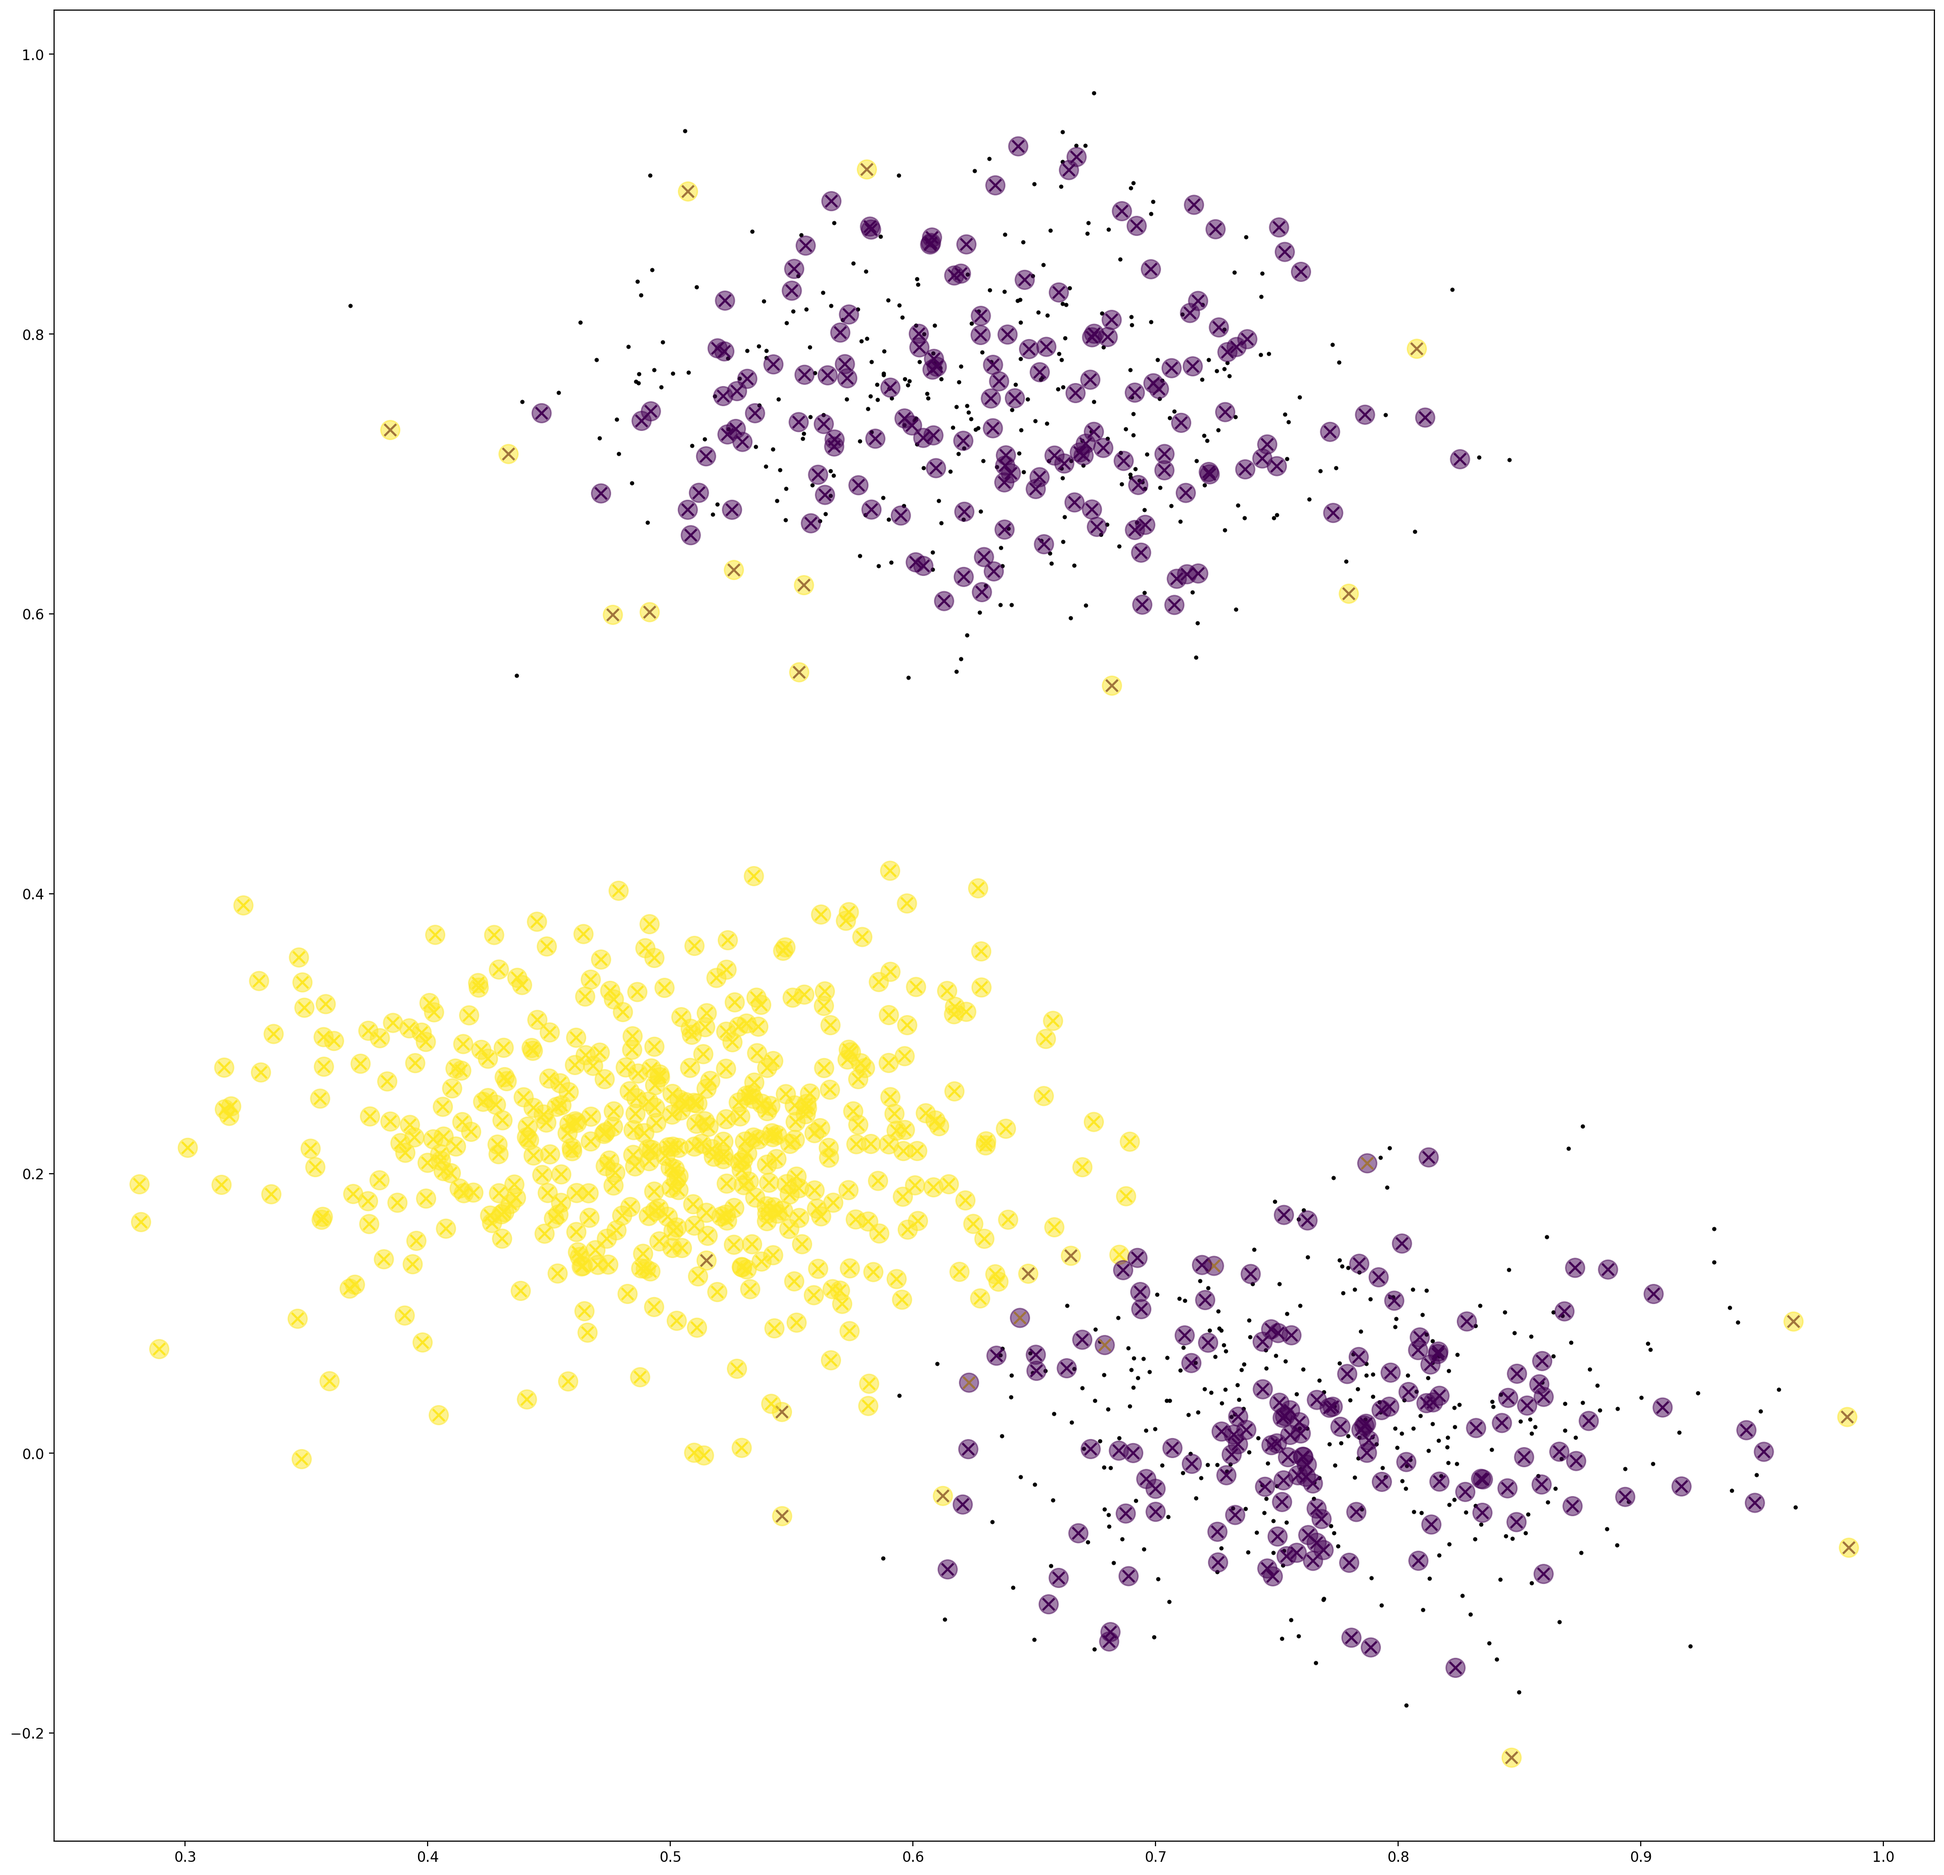
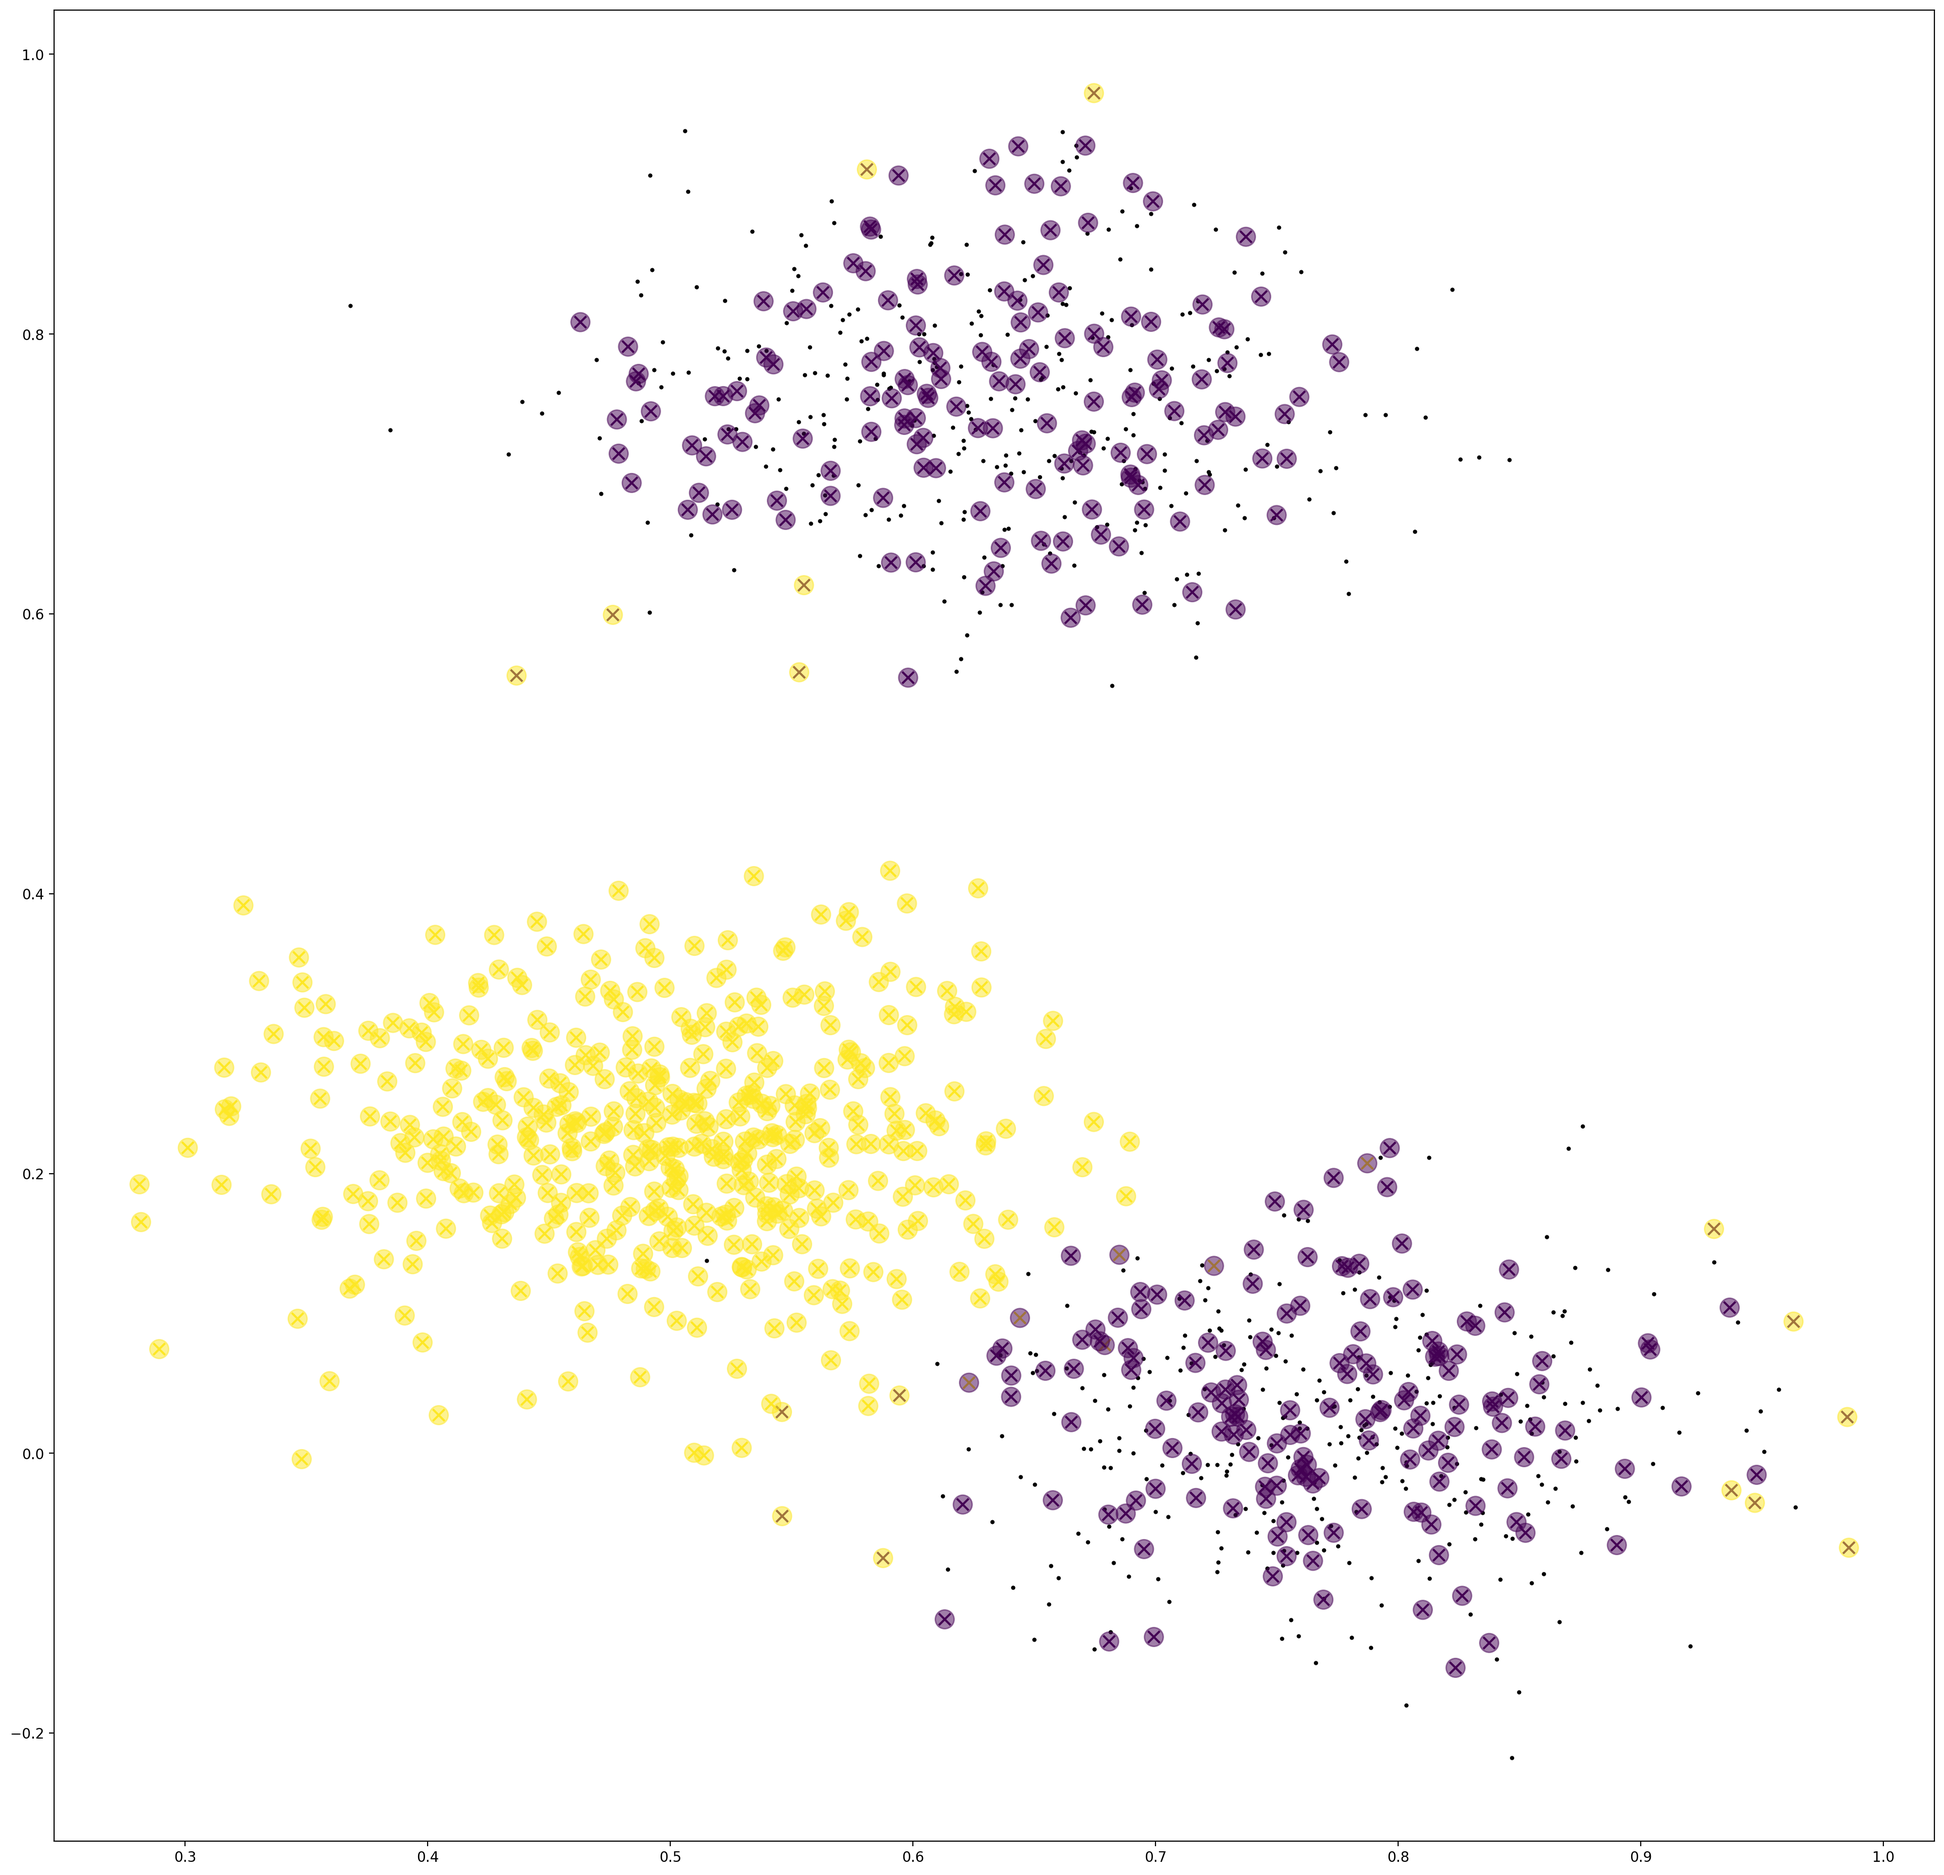
change until gpdc.fit function

diff --git a/evt_classifier/demo.py b/evt_classifier/demo.py
@@ -1,40 +1,86 @@
 
 #%% Importing Libs
 import matplotlib.pyplot as plt
+import seaborn as sns
 import numpy as np
 import pandas as pd
+
 from sklearn.datasets import make_classification, make_blobs
 from sklearn.model_selection import train_test_split
 from sklearn.metrics import roc_auc_score
 from gpdc import GPDC
 
+#%% GENERATE DATA
+X1, Y1 = make_blobs(n_samples=1400, center_box=(0, 1), 
+                    cluster_std=.08, 
+                    n_features=2, # dimension space
+                    centers=3, # number of classes 
+                    random_state=10)
 
-#%% RUN
-X1, Y1 = make_blobs(n_samples=1400,\
-    center_box=(0, 1), cluster_std=.08, n_features=2, centers=3, random_state=10)
-# print('Y1:', set(Y1))
+print('Y1:', set(Y1))
+
 data = pd.DataFrame(data={'x1': X1[:, 0], 'x2': X1[:, 1], 'y': Y1})
-test_1 = data[data['y'] == 2]
-train, test_2 = train_test_split(data.loc[data['y'].isin([0, 1]), :], test_size=0.35)
-test = pd.concat([test_1, test_2]).reset_index(drop=True)
+sns.scatterplot(data['x1'], data['x2'], hue=data['y'])
 
-X_train,y_train=train.values[:,:2],train.values[:,2]
-y_train=np.zeros(train.shape[0])
+#%% TRAIN TEST SPLIT
+df_y0_y1 = data.loc[data['y'].isin([0, 1]), :].copy()
+X = df_y0_y1.iloc[:,:-1]
+y = df_y0_y1.iloc[:,-1]
 
-X_test=test.values[:,:2]
-y_test=test.values[:,2].reshape(1,-1).squeeze()
-y_test=np.array(list(map(lambda x_:0 if x_ in (0,1) else 1,y_test)))
-# xa = X1[0]+np.array([1, 1])
-# print(train.shape,test.shape)
-if False:
-    plt.figure(figsize=(8, 8))
-    plt.scatter(X_train[:,0], X_train[:, 1],marker='.', c=y_train, s=25, edgecolor='k')
-    plt.scatter(X_test[:, 0], X_test[:, 1], marker='x', c=y_test)
-    # plt.scatter(xa[0], xa[1], marker='x', color='green')
-    plt.show()
+'''
+X_train: X of the classes 0, 1 
+y_train: y of the classes 0, 1 -> make all them of the same class 0 
+X_test: X of the classes 0, 1, 2
+y_test: y of the classes 0, 1, 2
+'''
 
+# train
+X_train, X_test, y_train, y_test  = train_test_split(X, y, 
+                                                      test_size=0.35, random_state=10)
+y_train = np.zeros(X_train.shape[0]) # making all train data of the same class 0
+print(f'Train Shape {X_train.shape, y_train.shape}')
+
+# test
+df_y2 = data.loc[data['y'].isin([2]), :].copy()
+X_test = pd.concat([X_test, df_y2.iloc[:,:2]]).reset_index(drop=True) # include class 2
+y_test = pd.concat([y_test, df_y2.iloc[:,-1]]).reset_index(drop=True) # include class 2
+print(f'Test Shape {X_test.shape, y_test.shape}')
+
+# shuffle test set
+from sklearn.utils import shuffle
+X_test, y_test = shuffle(X_test, y_test, random_state=10)
+
+
+X_train = X_train.values
+X_test = X_test.values
+
+# if False:
+plt.figure(figsize=(8, 8))
+plt.scatter(X_train[:,0], X_train[:, 1],marker='.', c=y_train, s=25, edgecolor='k')
+plt.scatter(X_test[:, 0], X_test[:, 1], marker='x', c=y_test)
+plt.legend(['training_set', 'test_set'])
+# plt.scatter(xa[0], xa[1], marker='x', color='green')
+plt.show()
+
+#%% MODEL
 gpdc = GPDC()
 gpdc.fit(X_train, y_train, k=20, alpha=0.1)
+
+xi_l = []
+q_negative_l = []
+for i, x0 in enumerate(X_train[:2]):
+    print(x0)
+    
+    X_ =
+    i=1
+    X_train.take(list(range(i))+list(range(i+1, X_train.shape[0])), axis=0)
+    xi_hat, R_nk = self._estimate_xi(x0, X_)
+    q = self._compute_quantile(xi_hat, R_nk)
+    xi_l.append(xi_hat)
+    q_negative_l.append(-q)
+s = np.quantile(xi_l, 1-alpha/2)
+t = np.quantile(q_negative_l, 1-alpha/2)
+
 
 # R = gpdc._compute_nagated_distances(xa,X1)
 # xi_a, u_a = gpdc._estimate_xi(xa, X1)
@@ -53,3 +99,4 @@ if True:
     plt.savefig('output/demo.png',dpi = 200,bbox_inches='tight')
     plt.show()
 
+;                                                                                                                                                                                                                                                                                                                                                                                                                                                                                                                                                                                                                                                                                                                                                                                                                                                                                                                                                                                                                                                                                                                                                                                                                                                                                                   a

diff --git a/evt_classifier/gpdc.py b/evt_classifier/gpdc.py
@@ -1,4 +1,6 @@
+from typing import Union
 import numpy as np
+import pandas as pd
 from scipy.stats import genextreme
 
 
@@ -41,6 +43,8 @@ class GPDC:
         xi_l = []
         q_negative_l = []
         for i, x0 in enumerate(self.X):
+            # x0 is the i th row
+            # return all the observations except the i th observation
             X_ = self.X.take(list(range(i))+list(range(i+1, self.n)), axis=0)
             xi_hat, R_nk = self._estimate_xi(x0, X_)
             q = self._compute_quantile(xi_hat, R_nk)
@@ -51,7 +55,28 @@ class GPDC:
         # print('s,t:', s, t)
         return s, t
 
-    def fit(self, X, y, k, alpha):
+    def fit(self,
+            X: Union[pd.DataFrame, np.array], 
+            y: Union[pd.DataFrame, np.array], 
+            k: int,  
+            alpha: float):
+        
+        """
+        Train model
+        
+        Parameters
+        ----------
+        X: pd.DataFrame or np.array
+            X_train 
+        y: pd.DataFrame or np.array
+            y_train
+        k: int
+            k higher distances
+        alpha: float
+            (1-alpha)-quantile od the negated_distance
+            Suggestion, choose alpha = 1/n, where n is the number of rows for X_train
+        """
+        
         assert 0 < alpha < 1, 'Wrong value of alpha!'
         self.k = k
         self.n, self.p = X.shape
